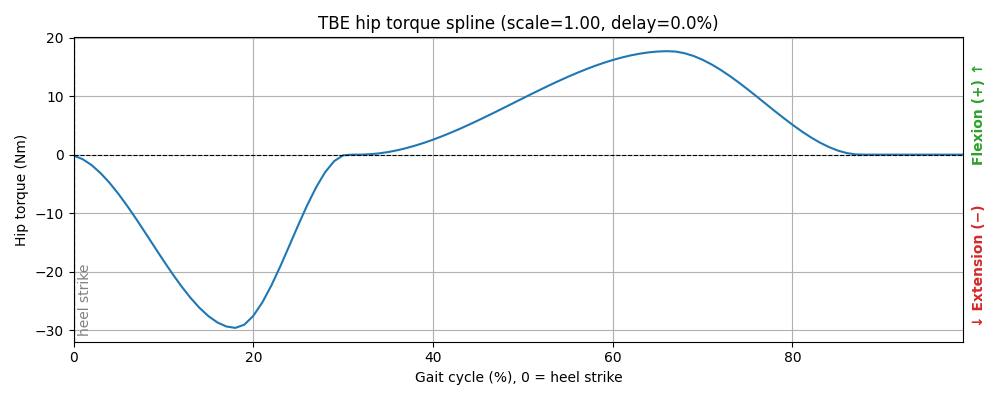
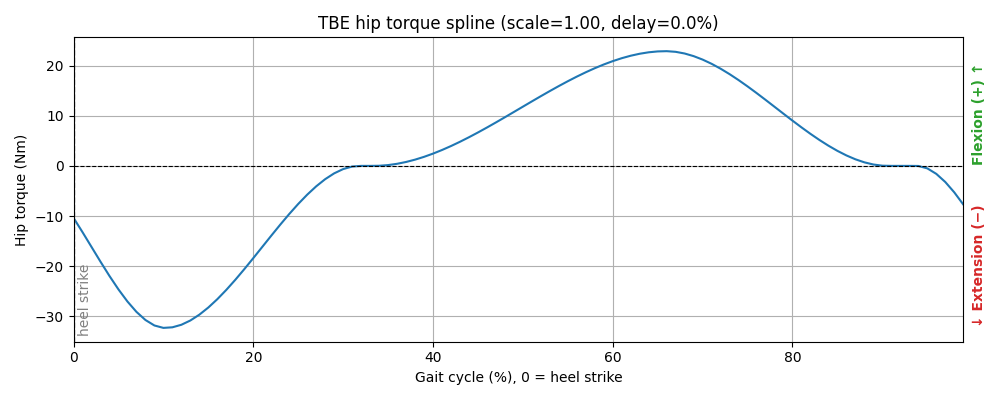
Use Franks 2021 hips-only average as the default hip spline
DEFAULT_SPLINE_PARAMS now uses the supplement note 5 Hips-Only Average row
(hip-timer %, gp_offset 16). Extension torque now starts ~6% before heel
strike: -0.13 Nm/kg at heel strike, extension peak at 10%, flexion peak at
66%. The old TNSRE LG values are kept as TNSRE_LG_SPLINE_PARAMS, and
torquePlot.py uses them to reconstruct the scale_0.35 trial recorded with them.

diff --git a/t2_spline.py b/t2_spline.py
@@ -4,8 +4,23 @@ import matplotlib.pyplot as plt
 import numpy as np
 from scipy.interpolate import CubicHermiteSpline
 
-# LG, from Supplementary Item of https://doi.org/10.1109/TNSRE.2022.3196665
+# Franks et al. 2021 supplement, note 5, "Hips-Only" Average row.
+# Times are % stride on the hip timer, which starts at 84% of the previous
+# stride; gp_offset = 16 converts them to % from heel strike.
 DEFAULT_SPLINE_PARAMS = {
+    "peak_time": 26.2,       # HE PS Peak
+    "rise_time": 16.4,       # HE RT
+    "mid_time": 48.6,        # mid PS
+    "mid_dur": 1.6,          # mid Dur
+    "peak_time_2": 81.9,     # HF PS
+    "fall_time": 24.7,       # HF FT
+    "gp_offset": 16,
+    "peak_extension_torque": -0.404,  # HE Torque (Nm/kg)
+    "peak_flexion_torque": 0.286,     # HF T (Nm/kg)
+}
+
+# Previous profile: LG, from Supplementary Item of https://doi.org/10.1109/TNSRE.2022.3196665
+TNSRE_LG_SPLINE_PARAMS = {
     "peak_time": 34,
     "rise_time": 18.8,
     "mid_time": 47.1,

diff --git a/torquePlot.py b/torquePlot.py
@@ -5,7 +5,7 @@ import numpy as np
 import pandas as pd
 from scipy.signal import find_peaks
 
-from t2_spline import DEFAULT_SPLINE_PARAMS, spline_generator
+from t2_spline import DEFAULT_SPLINE_PARAMS, TNSRE_LG_SPLINE_PARAMS, spline_generator
 
 
 BASE_DIR = Path(__file__).resolve().parent
@@ -21,7 +21,10 @@ STRIDE_TOL = 0.3  # keep strides within +/-30% of the median stride time
 # command. The command is spline[gc%], whose extension (negative) peak always
 # occurs at the same gait-cycle %. Each extension peak is therefore an anchor
 # at gc = PEAK_GC, and gc is linearly interpolated between consecutive peaks.
-PEAK_GC = float(np.argmin(spline_generator(**DEFAULT_SPLINE_PARAMS)))
+# Must be the profile the CSV was recorded with: the scale_0.35 trial used the
+# old TNSRE LG profile; use DEFAULT_SPLINE_PARAMS for trials after the switch.
+PROFILE_PARAMS = TNSRE_LG_SPLINE_PARAMS
+PEAK_GC = float(np.argmin(spline_generator(**PROFILE_PARAMS)))
 
 
 def reconstruct_gait(time, cmd):
